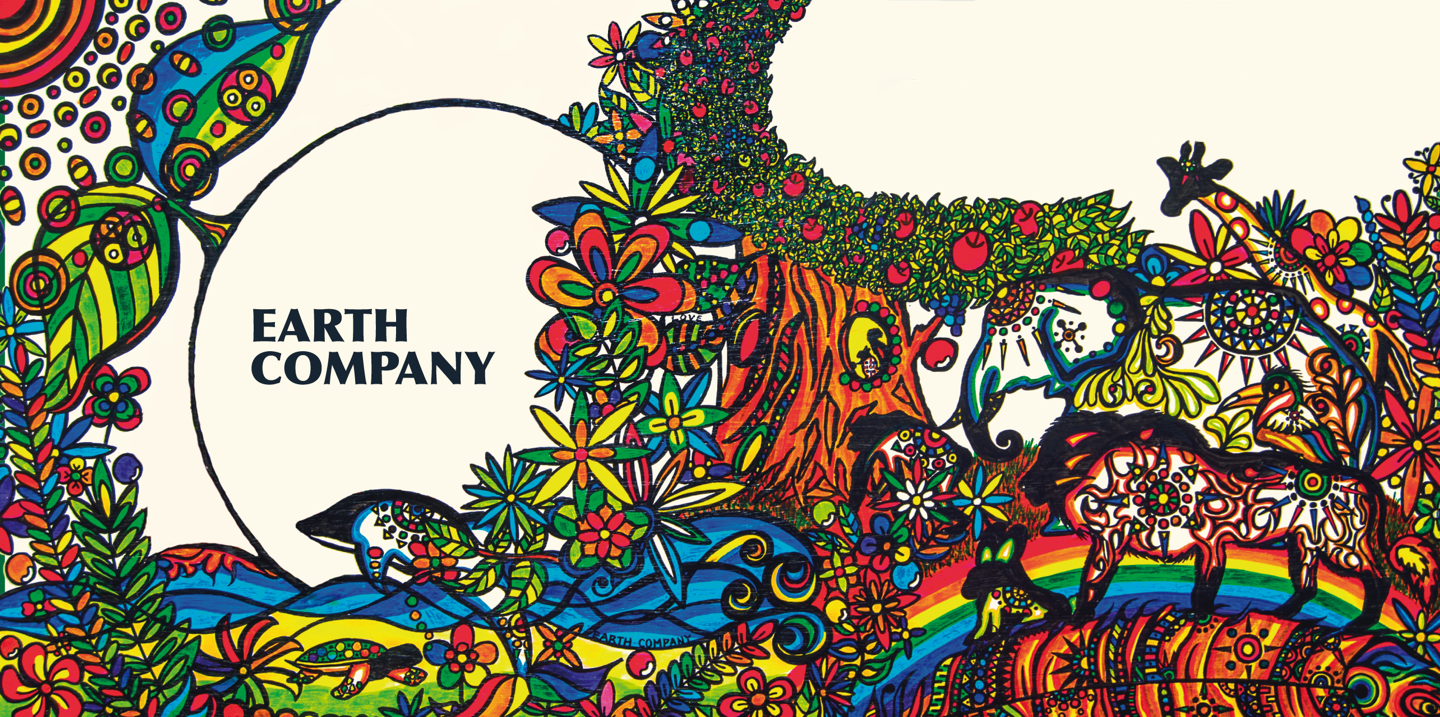
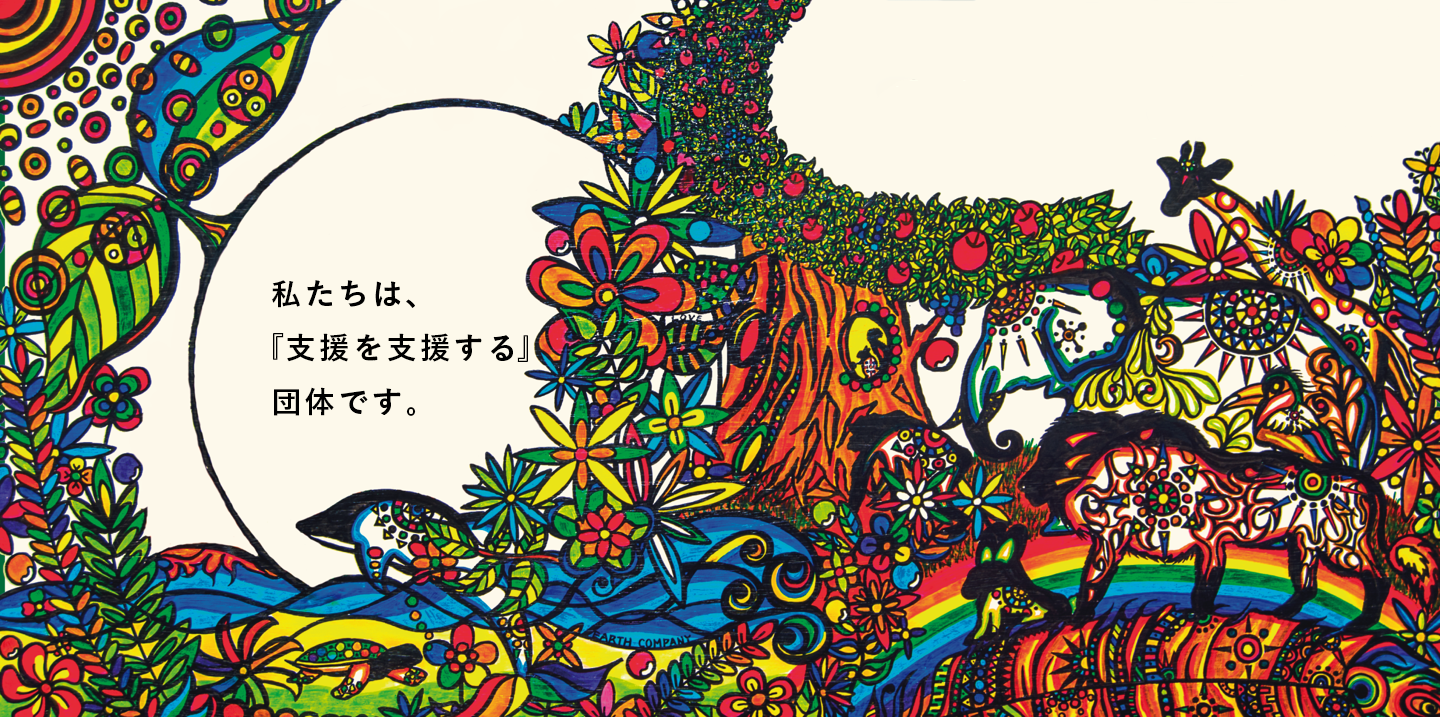
fix 5/3
header section, video section, media section fix
(many bugs)

Changed region(s): [[0.1562, 0.3989, 0.375, 0.583]]

diff --git a/.build/index.html b/.build/index.html
@@ -95,18 +95,18 @@
 </header>
 
 <!-- START #earth-hero -->           
-<header id="earth-hero" style="background-image: url(../static/images/tomaska_top.jpg); background-size: cover;">
-  <div class="earth-hero-video">
+<header id="earth-hero" style="background-image: url(../static/images/proverb.png); background-size: cover;">
+  <!-- <div class="earth-hero-video">
     <video preload="true" autoplay="autoplay" loop="loop" volume="0">
       <source src= "../static/video/earthcompany_header.mp4" type = "video/mp4">
       <source src= "../static/video/earthcompany_header.webm" type = "video/webm">
-    </video>
+    </video> -->
     <div class="overlay">
       <div class="container">
         <div class="row">
-          <div class="col-md-8 col-md-offset-1 earth-hero-intro">
-            <h1><span style="text-align: left; line-height: 48px; font-size: 28px; letter-spacing: 4px; text-shadow: 1px 1px 3px rgba(0,0,0,0.3);"><b><p>私たちは、<br>「支援を支援する」<br>団体です。</p></b></span></h1><br>
-            <h1><a href="http://www.earthcompany.jp/#!donation/c13hp" class="btn-primary btn-lg donate pull-left"><b>支援する</b></a></h1>
+          <div class="col-md-12 earth-hero-intro">
+            <!-- <h1><span style="text-align: left; line-height: 48px; font-size: 28px; letter-spacing: 4px; text-shadow: 1px 1px 3px rgba(0,0,0,0.3);"><b><p>私たちは、<br>「支援を支援する」<br>団体です。</p></b></span></h1><br> -->
+            <h1><a href="http://www.earthcompany.jp/#!donation/c13hp" class="btn-primary btn-lg donate text-center"><b>支援する</b></a></h1>
           </div>
         </div>
       </div>
@@ -170,7 +170,7 @@
     </section>
 
     <!-- Separate-para Section -->
-    <section id="separate-para" class="separate-para separate-section parallax">
+   <!--  <section id="separate-para" class="separate-para separate-section parallax">
       <div class="container">
         <div class="col-md-12 text-center"> 
           <div class="col-md-12">
@@ -178,12 +178,27 @@
           </div>
         </div>
       </div><!-- /.container -->
-    </section><!-- /.separate-para -->
+    <!-- </section> --><!-- /.separate-para -->
+    <section>
+    <div class="container">
+      
+          <div class="earth-hero-video">
+          <div class="col-md-12 text-center">
+        <div class="col-md-12">
+            <video preload="true" autoplay="autoplay" loop="loop" volume="0">
+              <source src= "../static/video/earthcompany_header.mp4" type = "video/mp4">
+              <source src= "../static/video/earthcompany_header.webm" type = "video/webm">
+            </video>
+          </div>
+        </div>
+      </div>
+    </div>    
+    </section>
 
       <!-- Separate Mobile Section -->
     <section id="earth-separate">
       <div>
-        <img src="../static/images/proverb.png" class="img-responsive"></div><!-- /.container -->
+        <img src="../static/images/agri.jpg" class="img-responsive"></div><!-- /.container -->
       <div class="earth-spacer earth-spacer-sm"></div>
     </section><!-- /.separate-para -->
       <!-- Separate Mobile End -->		
@@ -424,6 +439,55 @@
           </div> 
         </div>
       </div>
+
+  <section id="earth-trusted" data-section="trusted" style="background-color: #ffffff">
+  <div id="media" class="earth-trusted">
+    <div class="container">
+      <div class="row">
+        <div class="col-md-12 section-heading text-center">
+        <!--   <ul class="earth-social-icons">
+            <span style="color: #7dbe79; font-size: 70px;"><i class="ti-face-smile"></i></a></span>              
+          </ul> -->
+          <h2 class="earth-heading-sm earth-no-margin-bottom"><b>パートナー</b></h2><br>
+          <div class="row">
+            <div class="col-md-8 col-md-offset-2 subtext">
+<!--               <h5 style="text-align: center;">Earth Companyの活動を掲載して頂きました。</h5><br><br>
+ -->        </div>
+          </div>
+          <div class="earth-spacer earth-spacer-sm"></div>
+        </div>
+      </div>
+      <div class="row">  
+        <div class="col-md-2 col-sm-3 col-xs-6 col-md-offset-1">
+          <div class="partner-logo text-center">
+              <a href="http://media.wix.com/ugd/1296f3_602abcfce68b49679974c4ae52577210.pdf">
+              <img src="../static/images/logo-05.png" alt="Partners" class="img-responsive"></a>
+            </div>
+          </div>  
+          <div class="col-md-2 col-sm-3 col-xs-6">
+            <div class="partner-logo text-center">
+              <a href="http://greenz.jp/2015/01/25/unsung_hero/"><img src="../static/images/logo-02.png" alt="Partners" class="img-responsive"></a>
+            </div>
+          </div> 
+          <div class="col-md-2 col-sm-3 col-xs-6">
+            <div class="partner-logo text-center">
+              <a href="http://eedu.jp/blog/2015/01/13/earth-company/"><img src="../static/images/logo-03.png" alt="Partners" class="img-responsive"></a>
+            </div>
+          </div>
+          <div class="col-md-2 col-sm-3 col-xs-6">
+            <div class="partner-logo text-center">
+              <a href="http://nge.jp/2014/12/22/post-90795"><img src="../static/images/logo-01.png" alt="Partners" class="img-responsive"></a>
+           </div>
+         </div>
+         <div class="col-md-2 col-sm-3 col-xs-6">
+          <div class="partner-logo text-center">
+            <a href="http://nge.jp/2014/12/22/post-90795"><img src="../static/images/logo-01.png" alt="Partners" class="img-responsive"></a>
+         </div>
+       </div> 
+     </div>
+    </div>
+  </div>
+</section>
 
       <footer class="footer-distributed">
         <div class="footer-left" style="margin-right: 40px;">

diff --git a/pages/index.html b/pages/index.html
@@ -95,18 +95,18 @@
 </header>
 
 <!-- START #earth-hero -->           
-<header id="earth-hero" style="background-image: url(../static/images/tomaska_top.jpg); background-size: cover;">
-  <div class="earth-hero-video">
+<header id="earth-hero" style="background-image: url(../static/images/proverb.png); background-size: cover;">
+  <!-- <div class="earth-hero-video">
     <video preload="true" autoplay="autoplay" loop="loop" volume="0">
       <source src= "../static/video/earthcompany_header.mp4" type = "video/mp4">
       <source src= "../static/video/earthcompany_header.webm" type = "video/webm">
-    </video>
+    </video> -->
     <div class="overlay">
       <div class="container">
         <div class="row">
-          <div class="col-md-8 col-md-offset-1 earth-hero-intro">
-            <h1><span style="text-align: left; line-height: 48px; font-size: 28px; letter-spacing: 4px; text-shadow: 1px 1px 3px rgba(0,0,0,0.3);"><b><p>私たちは、<br>「支援を支援する」<br>団体です。</p></b></span></h1><br>
-            <h1><a href="http://www.earthcompany.jp/#!donation/c13hp" class="btn-primary btn-lg donate pull-left"><b>支援する</b></a></h1>
+          <div class="col-md-12 earth-hero-intro">
+            <!-- <h1><span style="text-align: left; line-height: 48px; font-size: 28px; letter-spacing: 4px; text-shadow: 1px 1px 3px rgba(0,0,0,0.3);"><b><p>私たちは、<br>「支援を支援する」<br>団体です。</p></b></span></h1><br> -->
+            <h1><a href="http://www.earthcompany.jp/#!donation/c13hp" class="btn-primary btn-lg donate text-center"><b>支援する</b></a></h1>
           </div>
         </div>
       </div>
@@ -170,7 +170,7 @@
     </section>
 
     <!-- Separate-para Section -->
-    <section id="separate-para" class="separate-para separate-section parallax">
+   <!--  <section id="separate-para" class="separate-para separate-section parallax">
       <div class="container">
         <div class="col-md-12 text-center"> 
           <div class="col-md-12">
@@ -178,12 +178,27 @@
           </div>
         </div>
       </div><!-- /.container -->
-    </section><!-- /.separate-para -->
+    <!-- </section> --><!-- /.separate-para -->
+    <section>
+    <div class="container">
+      
+          <div class="earth-hero-video">
+          <div class="col-md-12 text-center">
+        <div class="col-md-12">
+            <video preload="true" autoplay="autoplay" loop="loop" volume="0">
+              <source src= "../static/video/earthcompany_header.mp4" type = "video/mp4">
+              <source src= "../static/video/earthcompany_header.webm" type = "video/webm">
+            </video>
+          </div>
+        </div>
+      </div>
+    </div>    
+    </section>
 
       <!-- Separate Mobile Section -->
     <section id="earth-separate">
       <div>
-        <img src="../static/images/proverb.png" class="img-responsive"></div><!-- /.container -->
+        <img src="../static/images/agri.jpg" class="img-responsive"></div><!-- /.container -->
       <div class="earth-spacer earth-spacer-sm"></div>
     </section><!-- /.separate-para -->
       <!-- Separate Mobile End -->		
@@ -424,6 +439,55 @@
           </div> 
         </div>
       </div>
+
+  <section id="earth-trusted" data-section="trusted" style="background-color: #ffffff">
+  <div id="media" class="earth-trusted">
+    <div class="container">
+      <div class="row">
+        <div class="col-md-12 section-heading text-center">
+        <!--   <ul class="earth-social-icons">
+            <span style="color: #7dbe79; font-size: 70px;"><i class="ti-face-smile"></i></a></span>              
+          </ul> -->
+          <h2 class="earth-heading-sm earth-no-margin-bottom"><b>パートナー</b></h2><br>
+          <div class="row">
+            <div class="col-md-8 col-md-offset-2 subtext">
+<!--               <h5 style="text-align: center;">Earth Companyの活動を掲載して頂きました。</h5><br><br>
+ -->        </div>
+          </div>
+          <div class="earth-spacer earth-spacer-sm"></div>
+        </div>
+      </div>
+      <div class="row">  
+        <div class="col-md-2 col-sm-3 col-xs-6 col-md-offset-1">
+          <div class="partner-logo text-center">
+              <a href="http://media.wix.com/ugd/1296f3_602abcfce68b49679974c4ae52577210.pdf">
+              <img src="../static/images/logo-05.png" alt="Partners" class="img-responsive"></a>
+            </div>
+          </div>  
+          <div class="col-md-2 col-sm-3 col-xs-6">
+            <div class="partner-logo text-center">
+              <a href="http://greenz.jp/2015/01/25/unsung_hero/"><img src="../static/images/logo-02.png" alt="Partners" class="img-responsive"></a>
+            </div>
+          </div> 
+          <div class="col-md-2 col-sm-3 col-xs-6">
+            <div class="partner-logo text-center">
+              <a href="http://eedu.jp/blog/2015/01/13/earth-company/"><img src="../static/images/logo-03.png" alt="Partners" class="img-responsive"></a>
+            </div>
+          </div>
+          <div class="col-md-2 col-sm-3 col-xs-6">
+            <div class="partner-logo text-center">
+              <a href="http://nge.jp/2014/12/22/post-90795"><img src="../static/images/logo-01.png" alt="Partners" class="img-responsive"></a>
+           </div>
+         </div>
+         <div class="col-md-2 col-sm-3 col-xs-6">
+          <div class="partner-logo text-center">
+            <a href="http://nge.jp/2014/12/22/post-90795"><img src="../static/images/logo-01.png" alt="Partners" class="img-responsive"></a>
+         </div>
+       </div> 
+     </div>
+    </div>
+  </div>
+</section>
 
       <footer class="footer-distributed">
         <div class="footer-left" style="margin-right: 40px;">

diff --git a/.build/static/css/style.css b/.build/static/css/style.css
@@ -285,7 +285,6 @@ blockquote span{
   color: #999;
 }
 
-
 video .earth-hero-video {
   width: 100%;
   height: 100%;
@@ -1480,7 +1479,7 @@ Components
 
   #separate-para{
     background: #222;
-    background: url(../images/proverb.png) 0 0 no-repeat scroll;
+    background: url(../images/agri.jpg) 0 0 no-repeat scroll;
     -webkit-background-size: cover;
     -moz-background-size: cover;
     background-size: cover;
@@ -1836,7 +1835,7 @@ Components
   .footer-distributed .footer-links{
     color:  #ffffff;
     letter-spacing: 1px;
-    padding: 0 120px;
+    padding: 0px 0px;
   }
 
   .footer-distributed .footer-links a{
@@ -1871,7 +1870,7 @@ Components
     display: inline-block;
     color: #ffffff;
     vertical-align: middle;
-    margin: 10px 0px 10px 0;
+    margin: 10px 0 10px 0;
   }
 
   .footer-distributed .footer-center p span{

diff --git a/static/css/style.css b/static/css/style.css
@@ -285,7 +285,6 @@ blockquote span{
   color: #999;
 }
 
-
 video .earth-hero-video {
   width: 100%;
   height: 100%;
@@ -1480,7 +1479,7 @@ Components
 
   #separate-para{
     background: #222;
-    background: url(../images/proverb.png) 0 0 no-repeat scroll;
+    background: url(../images/agri.jpg) 0 0 no-repeat scroll;
     -webkit-background-size: cover;
     -moz-background-size: cover;
     background-size: cover;
@@ -1836,7 +1835,7 @@ Components
   .footer-distributed .footer-links{
     color:  #ffffff;
     letter-spacing: 1px;
-    padding: 0 120px;
+    padding: 0px 0px;
   }
 
   .footer-distributed .footer-links a{
@@ -1871,7 +1870,7 @@ Components
     display: inline-block;
     color: #ffffff;
     vertical-align: middle;
-    margin: 10px 0px 10px 0;
+    margin: 10px 0 10px 0;
   }
 
   .footer-distributed .footer-center p span{
